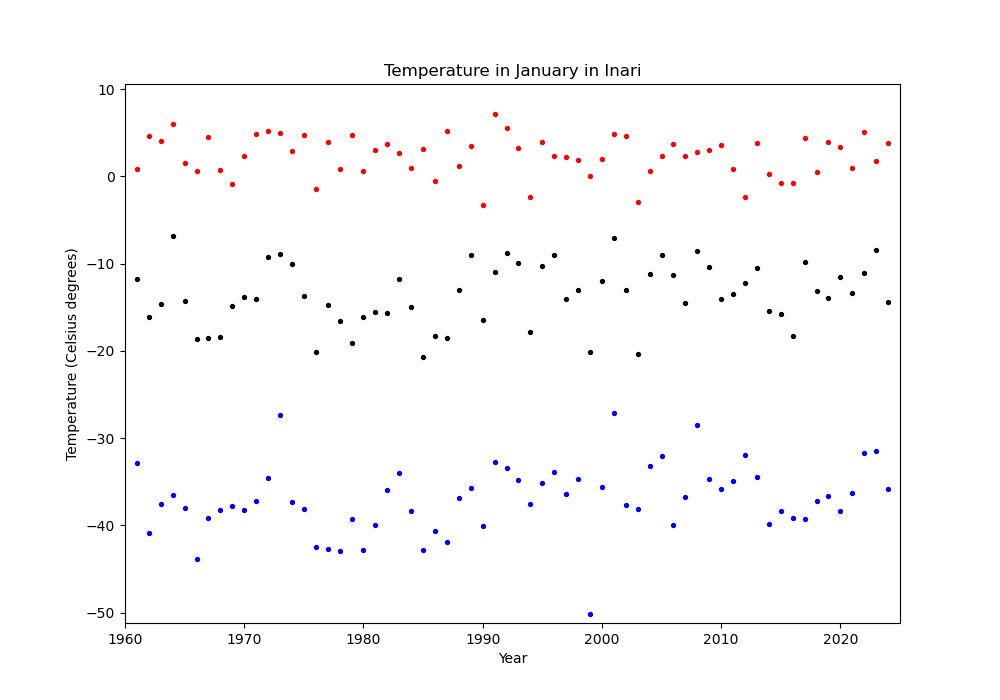
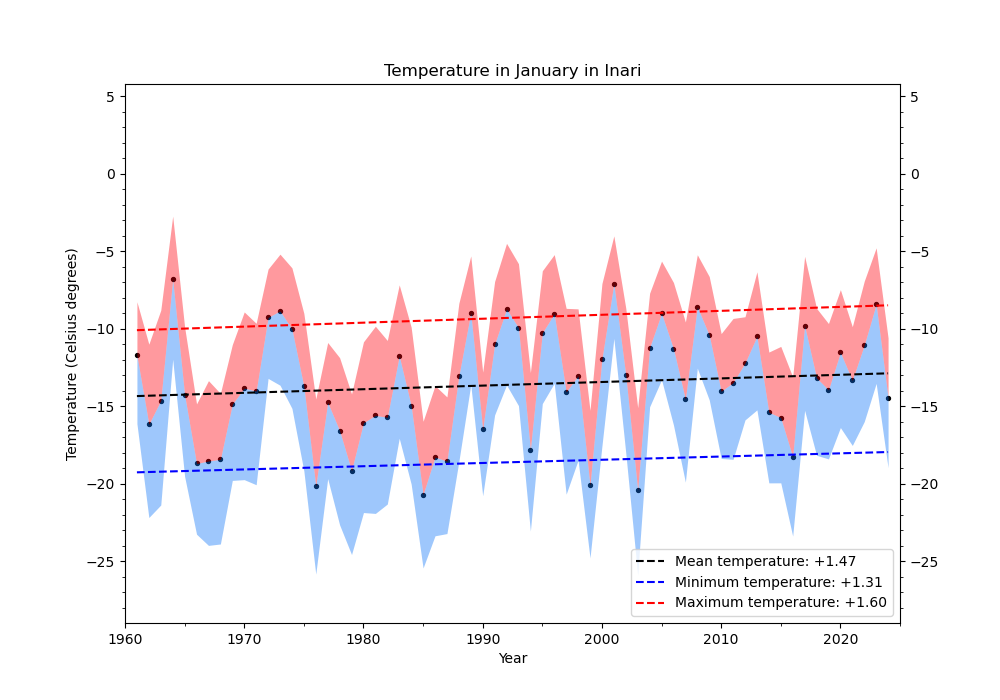
Add fit functions

diff --git a/temp_evolution_per_municipality.py b/temp_evolution_per_municipality.py
@@ -1,15 +1,18 @@
 import pathlib
+import argparse
 import pandas as pd
 import geopandas
 import rioxarray
-import matplotlib.pyplot as plt
 import xarray as xr
 import numpy as np
 from calendar import monthrange,month_name
 from datetime import datetime
-import argparse
-from itertools import product
 from tqdm import tqdm
+from itertools import product
+import lmfit
+import fit_functions
+import matplotlib.pyplot as plt
+from matplotlib.ticker import MultipleLocator
 
 
 #--------------------------------------------------------------------
@@ -77,13 +80,7 @@ def temperature_by_municipality(municipalities,temp_raster,
       try:
          clipped_raster = temp_raster.rio.clip(municipality.geometry,
                                  municipality.crs)
-         match quantity:
-            case "mean temperature":
-               muni_temp = np.append(muni_temp,clipped_raster.mean().values)
-            case "minimum temperature":
-               muni_temp = np.append(muni_temp,clipped_raster.min().values)
-            case "maximum temperature":
-               muni_temp = np.append(muni_temp,clipped_raster.max().values)
+         muni_temp = np.append(muni_temp,clipped_raster.mean().values)
       except:
          muni_temp = np.append(muni_temp,np.nan)
 
@@ -107,6 +104,69 @@ def extract_temperatures(municipalities,quantity="mean temperature",
    return muni_temp
 
 #--------------------------------------------------------------------
+def fit_linear(y,x=None,err=None,method='leastsq'):
+   """!
+   Minimize the data points with the selected function
+   
+   @param y: 1D array : data points to fit
+   @param params: lmfit method : list of Gaussian
+   @param err: Float : rms of spectrum to fit
+   @param method: String : minimization method
+   
+   @return lmfit obj
+   """
+   if x is None:
+      x = np.arange(len(y))
+
+   fit_params = lmfit.create_params(
+            coeff={'value': 2, 'min': -10, 'max': 10},
+            const={'value': np.mean(y), 'min': -60, 'max': 40})
+
+   fitter = lmfit.Minimizer(fit_functions.linear,
+               fit_params,fcn_args=(x,y,err))
+   try:
+      fit = fitter.minimize(method=method)
+   except Exception as mes:
+      print("Something wrong with fit: ", mes)
+      raise SystemExit
+
+   model = fit_functions.linear(fit.params,x)
+
+   return model
+
+#--------------------------------------------------------------------
+def fit_exponential(y,x=None,err=None,method='leastsq'):
+   """!
+   Minimize the data points with the selected function
+   
+   @param y: 1D array : data points to fit
+   @param params: lmfit method : list of Gaussian
+   @param err: Float : rms of spectrum to fit
+   @param method: String : minimization method
+   
+   @return lmfit obj
+   """
+   if x is None:
+      x = np.arange(len(y))
+
+   fit_params = lmfit.create_params(
+            amp={'value': 1, 'min': -20, 'max': 20},
+            coeff={'value': 1e-2, 'min': -1, 'max': 1},
+            const={'value': np.mean(y), 'min': -60, 'max': 40})
+
+   fitter = lmfit.Minimizer(fit_functions.exponential,
+               fit_params,fcn_args=(x,y,err))
+   try:
+      fit = fitter.minimize(method=method)
+   except Exception as mes:
+      print("Something wrong with fit: ", mes)
+      raise SystemExit
+
+   model = fit_functions.exponential(fit.params,x)
+
+   return model
+
+#--------------------------------------------------------------------
 def plot_temperature_evolution(temperatures,city,
          year_start=1961,year_end=2024,month=1):
 
@@ -124,21 +184,40 @@ def plot_temperature_evolution(temperatures,city,
    ### Add exponential fit ###
    ###########################
 
-   fig = plt.figure(figsize=(10,7))
+   fig,ax = plt.subplots(figsize=(10,7))
 
-   plt.scatter(year,mean_temp, marker='o', s=8,color='black')
-   plt.scatter(year,min_temp,  marker='o', s=8,color='blue')
-   plt.scatter(year,max_temp,  marker='o', s=8,color='red')
-#   plt.fill_between(year,mean_temp,max_temp,
-#         color='xkcd:deep sky blue',alpha=0.4,linewidth=0)
-#   plt.fill_between(year,min_temp,mean_temp,
-#         color='xkcd:bright red',alpha=0.4,linewidth=0)
+   ax.scatter(year,mean_temp, marker='o', s=8,color='black')
+   model = fit_linear(mean_temp,x=year)
+   ax.plot(year,model,'k--',
+               label='Mean temperature: %+.2f'%(model[-1]-model[0]))
+
+   ax.fill_between(year,min_temp,mean_temp,
+         color='xkcd:deep sky blue',alpha=0.4,linewidth=0)
+#   plt.scatter(year,min_temp,  marker='o', s=8,color='blue')
+   model = fit_linear(min_temp,x=year)
+   ax.plot(year,model,'b--',
+               label='Minimum temperature: %+.2f'%(model[-1]-model[0]))
+
+   ax.fill_between(year,mean_temp,max_temp,
+         color='xkcd:bright red',alpha=0.4,linewidth=0)
+#   plt.scatter(year,max_temp,  marker='o', s=8,color='red')
+   model = fit_linear(max_temp,x=year)
+   ax.plot(year,model,'r--',
+               label='Maximum temperature: %+.2f'%(model[-1]-model[0]))
+
+   ax.legend(loc='lower right')
 
    plt.title(f"Temperature in {month_name[month]} in {city}")
    plt.xlabel("Year")
    plt.ylabel("Temperature (Celsius degrees)")
    plt.xlim([year_start-1,year_end+1])
    plt.ylim([y_min-1,y_max+1])
+
+   ax.tick_params(labelright=True,right=True,which='both')
+   ax.xaxis.set_major_locator(MultipleLocator(10))
+   ax.xaxis.set_minor_locator(MultipleLocator(5))
+   ax.yaxis.set_major_locator(MultipleLocator(5))
+   ax.yaxis.set_minor_locator(MultipleLocator(1))
 
    return fig
 

diff --git a/fit_functions.py b/fit_functions.py
@@ -1,0 +1,60 @@
+import numpy as np
+import lmfit
+
+
+#--------------------------------------------------------------------
+def linear(pars,x,data=None,eps=None):
+    """!
+    Compute model, residual with and without errors
+    
+    @param pars: lmfit method : parameters of the function
+    @param x: 1D array : velocity in channel unit
+    @param data: 1D array : spectrum / Brightness Temperature
+    @param eps: 1D array : errors
+    
+    @return model if data is None \n
+    model - data if eps is None \n
+    (model - data) / eps else
+    """
+    parvals = pars.valuesdict()
+    coeff = parvals['coeff']
+    const = parvals['const']
+
+    model = coeff * x + const
+
+    if data is None:
+        return model
+    if eps is None:
+        return (model-data)
+    return (model-data)/eps
+
+#--------------------------------------------------------------------
+def exponential(pars,x,data=None,eps=None):
+    """!
+    Compute model, residual with and without errors
+    
+    @param pars: lmfit method : parameters of the function
+    @param x: 1D array : velocity in channel unit
+    @param data: 1D array : spectrum / Brightness Temperature
+    @param eps: 1D array : errors
+    
+    @return model if data is None \n
+    model - data if eps is None \n
+    (model - data) / eps else
+    """
+    parvals = pars.valuesdict()
+    amp   = parvals['amp']
+    coeff = parvals['coeff']
+    const = parvals['const']
+
+    model = amp * np.exp(coeff * (x-x[0])) + const
+
+    if data is None:
+        return model
+    if eps is None:
+        return (model-data)
+    return (model-data)/eps
+
+#--------------------------------------------------------------------
+
+
